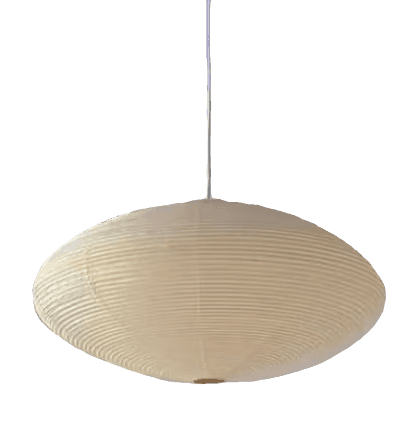
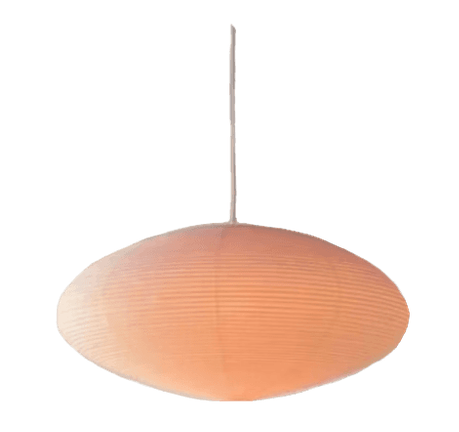
Shrink lamp hero and align lit/unlit lantern assets
Use the repo's matching Akari lantern pair at identical canvas
size and body alignment, stack both absolutely for a clean
scroll crossfade, and place a smaller pendant in the upper center.

Changed region(s): [[0.0597, 0.0, 0.9851, 0.9329]]

diff --git a/css/main.css b/css/main.css
@@ -312,78 +312,77 @@ p {
 
 .lamp-hero__halo {
   position: absolute;
-  top: 6%;
+  top: 10%;
   left: 50%;
   z-index: 0;
-  width: clamp(20rem, 78vw, 46rem);
-  height: clamp(16rem, 52vh, 32rem);
+  width: clamp(11rem, 36vw, 18rem);
+  height: clamp(9rem, 28vh, 14rem);
   transform: translateX(-50%);
   background: radial-gradient(
-    ellipse 72% 58% at 50% 42%,
+    ellipse 72% 58% at 50% 48%,
     rgba(255, 190, 120, calc(0.72 * var(--lamp-power))) 0%,
     rgba(255, 210, 150, calc(0.4 * var(--lamp-power))) 34%,
     rgba(255, 235, 200, calc(0.16 * var(--lamp-power))) 56%,
     transparent 74%
   );
-  filter: blur(22px);
+  filter: blur(18px);
   pointer-events: none;
   transition: opacity 0.45s ease;
 }
 
 .lamp-hero__lamp {
   position: absolute;
-  top: 0;
+  top: clamp(3.75rem, 9vh, 5.5rem);
   left: 50%;
   z-index: 2;
-  width: clamp(14rem, 42vw, 26rem);
+  width: clamp(6.5rem, 18vw, 10rem);
+  aspect-ratio: 459 / 432;
   transform: translateX(-50%);
   pointer-events: none;
 }
 
 .lamp-hero__lamp-img {
+  position: absolute;
+  inset: 0;
   display: block;
   width: 100%;
-  height: auto;
+  height: 100%;
+  object-fit: contain;
+  object-position: center center;
+  image-rendering: auto;
   user-select: none;
   -webkit-user-drag: none;
 }
 
 .lamp-hero__lamp-img--unlit {
-  position: relative;
   opacity: calc(1 - var(--lamp-power));
   transition: opacity 0.55s ease;
 }
 
 .lamp-hero__lamp-img--lit {
-  position: absolute;
-  inset: 0;
-  width: 100%;
-  height: 100%;
-  object-fit: contain;
-  object-position: center top;
   opacity: var(--lamp-power);
   filter:
-    drop-shadow(0 0 calc(18px * var(--lamp-power)) rgba(255, 190, 120, 0.45))
-    drop-shadow(0 0 calc(48px * var(--lamp-power)) rgba(255, 170, 100, 0.28));
+    drop-shadow(0 0 calc(12px * var(--lamp-power)) rgba(255, 190, 120, 0.4))
+    drop-shadow(0 0 calc(28px * var(--lamp-power)) rgba(255, 170, 100, 0.24));
   transition: opacity 0.55s ease, filter 0.55s ease;
 }
 
 .lamp-hero__pull {
   position: absolute;
-  top: 0;
-  left: calc(50% + clamp(6.5rem, 18vw, 11rem));
+  top: clamp(3.75rem, 9vh, 5.5rem);
+  left: calc(50% + clamp(3.6rem, 10vw, 5.75rem));
   z-index: 3;
   display: flex;
   flex-direction: column;
   align-items: center;
-  width: clamp(2.4rem, 5.5vw, 3.4rem);
+  width: clamp(1.85rem, 4.2vw, 2.5rem);
   padding: 0;
   margin: 0;
   border: 0;
   background: transparent;
   cursor: pointer;
   pointer-events: none;
-  transform: translateY(calc(var(--lamp-power) * 10px));
+  transform: translateY(calc(var(--lamp-power) * 8px));
   transition: transform 0.45s cubic-bezier(0.33, 1, 0.68, 1);
 }
 
@@ -436,7 +435,7 @@ p {
 .lamp-hero__intro {
   position: absolute;
   left: 50%;
-  top: clamp(52%, 58vh, 62%);
+  top: clamp(42%, 48vh, 54%);
   z-index: 2;
   width: min(100% - 2rem, 36rem);
   text-align: center;
@@ -466,13 +465,20 @@ p {
 
 @media (max-width: 768px) {
   .lamp-hero__lamp {
-    width: clamp(12rem, 68vw, 18rem);
+    top: calc(var(--case-topbar-height) + 1.75rem);
+    width: clamp(5.75rem, 34vw, 8.25rem);
+  }
+
+  .lamp-hero__halo {
+    top: calc(var(--case-topbar-height) + 2.25rem);
+    width: clamp(9rem, 58vw, 14rem);
+    height: clamp(8rem, 28vh, 12rem);
   }
 
   .lamp-hero__pull {
-    top: calc(var(--case-topbar-height) + 1.1rem);
-    left: calc(50% + min(3.35rem, 16vw));
-    width: clamp(2.35rem, 11vw, 2.85rem);
+    top: calc(var(--case-topbar-height) + 1.75rem);
+    left: calc(50% + min(2.85rem, 18vw));
+    width: clamp(1.7rem, 8.5vw, 2.15rem);
   }
 
   .lamp-hero__hint {
@@ -480,7 +486,7 @@ p {
   }
 
   .lamp-hero__intro {
-    top: clamp(48%, 54vh, 58%);
+    top: clamp(40%, 46vh, 52%);
   }
 }
 

diff --git a/index.html b/index.html
@@ -40,16 +40,17 @@
               class="lamp-hero__lamp-img lamp-hero__lamp-img--unlit"
               src="assets/images/hero/lamp-unlit.png"
               alt=""
-              width="235"
-              height="255"
+              width="459"
+              height="432"
               decoding="async"
+              fetchpriority="high"
             >
             <img
               class="lamp-hero__lamp-img lamp-hero__lamp-img--lit"
               src="assets/images/hero/lamp-lit.png"
               alt=""
-              width="402"
-              height="441"
+              width="459"
+              height="432"
               decoding="async"
             >
           </div>
